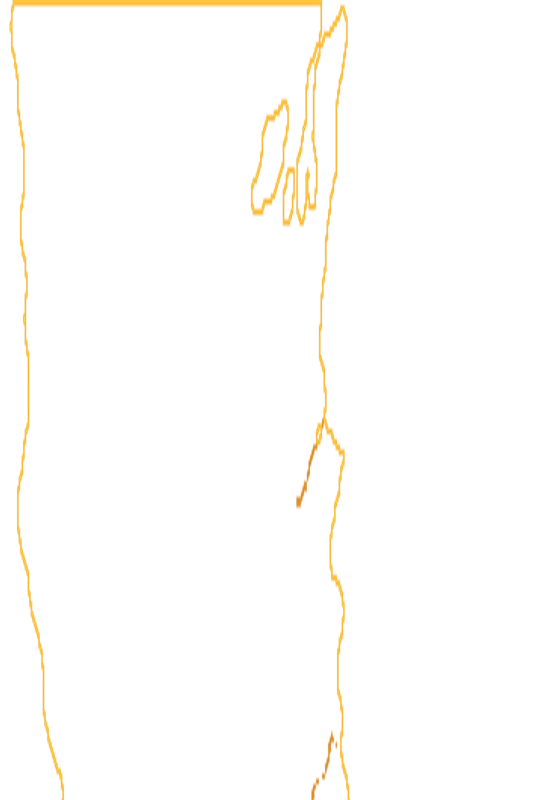
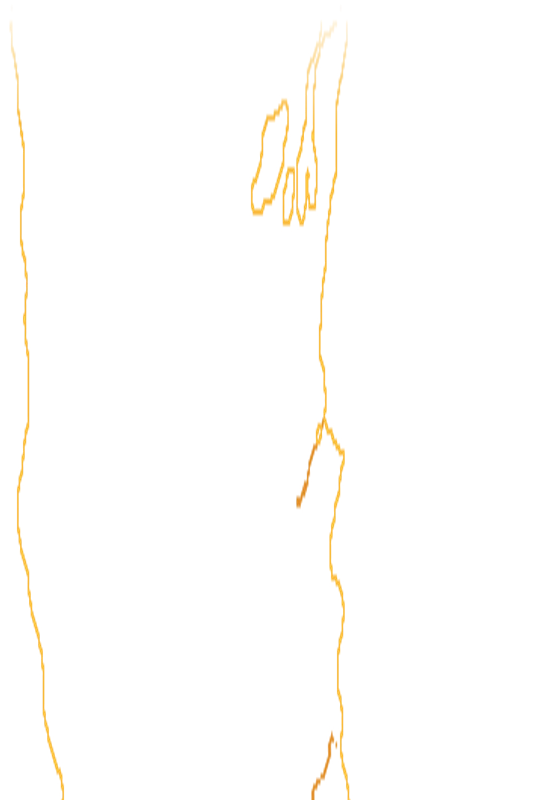
feat: add DragonImage component and clean portrait assets with fallback logic

diff --git a/scratch/test_pipeline.js b/scratch/test_pipeline.js
@@ -1,7 +1,7 @@
 const sharp = require('sharp');
 const fs = require('fs');
 
-async function testPipeline() {
+async function generateNaturalOutlineMap() {
   const inputPath = 'public/map/westeros-outline.png';
   const img = sharp(inputPath);
   const { data, info } = await img.raw().toBuffer({ resolveWithObject: true });
@@ -9,12 +9,12 @@ async function testPipeline() {
   const h = info.height; // 1024
   const ch = info.channels;
 
-  // Let's create a line map on the original resolution
-  const lineBuf = Buffer.alloc(w * h * 4);
-
+  // Function to check if a pixel in the original image is ocean
   function isOcean(x, y) {
-    if (x < 0 || x >= w || y < 0 || y >= h) return true;
+    // IMPORTANT: Out-of-bounds is NOT ocean! Do NOT draw artificial canvas border lines!
+    if (x < 0 || x >= w || y < 0 || y >= h) return false;
     const idx = (y * w + x) * ch;
+    // Blue sea: (b - r > 20 && b > 105)
     return (data[idx + 2] - data[idx] > 20 && data[idx + 2] > 105);
   }
 
@@ -24,42 +24,49 @@ async function testPipeline() {
     return 0.299 * data[idx] + 0.587 * data[idx + 1] + 0.114 * data[idx + 2];
   }
 
+  const lineBuf = Buffer.alloc(w * h * 4);
+
   for (let y = 0; y < h; y++) {
     for (let x = 0; x < w; x++) {
       const idx = (y * w + x) * 4;
       const ocean = isOcean(x, y);
 
-      // Check coastline
+      // 1. Coastline: A land pixel adjacent to an actual ocean pixel
       let isCoast = false;
       if (!ocean) {
-        // Any adjacent ocean pixel?
+        // Only trigger if an actual valid within-bounds ocean pixel is adjacent
         if (isOcean(x - 1, y) || isOcean(x + 1, y) || isOcean(x, y - 1) || isOcean(x, y + 1) ||
             isOcean(x - 1, y - 1) || isOcean(x + 1, y - 1) || isOcean(x - 1, y + 1) || isOcean(x + 1, y + 1)) {
-          isCoast = true;
+          // Exclude the very top border (y < 4) to avoid flat cut line
+          if (y >= 4) {
+            isCoast = true;
+          }
         }
       }
 
-      // Check internal line
+      // 2. Internal kingdom borders and rivers:
       let isInternal = false;
       if (!ocean && !isCoast) {
         const lum = getLum(x, y);
-        // Surrounding lum
         const surr = (getLum(x - 2, y) + getLum(x + 2, y) + getLum(x, y - 2) + getLum(x, y + 2)) / 4;
-        if (surr - lum > 8 || lum < 135) {
+        if (surr - lum > 7 || lum < 135) {
           isInternal = true;
         }
       }
 
       if (isCoast) {
+        // Fade top 20px smoothly so the far north doesn't end abruptly
+        const topFade = y < 25 ? (y / 25) : 1.0;
         lineBuf[idx] = 250;     // R
         lineBuf[idx + 1] = 185; // G
         lineBuf[idx + 2] = 55;  // B
-        lineBuf[idx + 3] = 255; // Alpha
+        lineBuf[idx + 3] = Math.floor(255 * topFade); // Alpha
       } else if (isInternal) {
-        lineBuf[idx] = 220;     // R
+        const topFade = y < 25 ? (y / 25) : 1.0;
+        lineBuf[idx] = 225;     // R
         lineBuf[idx + 1] = 140; // G
         lineBuf[idx + 2] = 35;  // B
-        lineBuf[idx + 3] = 230; // Alpha
+        lineBuf[idx + 3] = Math.floor(225 * topFade); // Alpha
       } else {
         lineBuf[idx] = 0;
         lineBuf[idx + 1] = 0;
@@ -69,16 +76,18 @@ async function testPipeline() {
     }
   }
 
-  // Now upscale this pure line map directly to 560 x 5350!
-  await sharp(lineBuf, { raw: { width: w, height: h, channels: 4 } })
+  // Upscale cleanly to 560 x 5350 using Lanczos3
+  const outBuf = await sharp(lineBuf, { raw: { width: w, height: h, channels: 4 } })
     .resize(560, 5350, {
       kernel: sharp.kernel.lanczos3,
       fit: 'fill'
     })
     .webp({ quality: 95, effort: 6 })
-    .toFile('public/map/westeros-ultra-sharp.webp');
+    .toBuffer();
 
-  console.log('Processed and upscaled cleanly to public/map/westeros-ultra-sharp.webp');
+  const targetFile = 'public/map/westeros-ultra-sharp.webp';
+  fs.writeFileSync(targetFile, outBuf);
+  console.log('Saved perfected natural Westeros outline to:', targetFile);
 }
 
-testPipeline();
+generateNaturalOutlineMap();

diff --git a/components/DragonImage.tsx b/components/DragonImage.tsx
@@ -1,6 +1,5 @@
 "use client";
 
-import Image from "next/image";
 import { useState, useEffect } from "react";
 
 type DragonImageProps = {
@@ -19,10 +18,9 @@ export default function DragonImage({
   dragonId,
   className = "",
   style = {},
-  isBlendedImage = false,
   priority = false,
 }: DragonImageProps) {
-  const [loaded, setLoaded] = useState(false);
+  const [loaded, setLoaded] = useState(true);
   const [useDirect, setUseDirect] = useState(false);
   const [error, setError] = useState(false);
 
@@ -31,7 +29,7 @@ export default function DragonImage({
   const isLocalClean = activeSrc.startsWith("/dragons/clean/");
 
   useEffect(() => {
-    setLoaded(false);
+    setLoaded(true);
     setUseDirect(false);
     setError(false);
   }, [activeSrc]);
@@ -49,13 +47,6 @@ export default function DragonImage({
 
   return (
     <div className="relative flex items-center justify-center">
-      {/* Skeleton Loading Placeholder without harsh box borders */}
-      {!loaded && !error && (
-        <div className="absolute inset-0 flex flex-col items-center justify-center pointer-events-none opacity-40">
-          <span className="text-2xl animate-pulse">🐉</span>
-        </div>
-      )}
-
       {/* Fallback Display on Error */}
       {error ? (
         <div className="flex flex-col items-center justify-center p-4 bg-zinc-950/80 border border-amber-900/40 rounded-xl text-center space-y-1 z-10">
@@ -64,20 +55,13 @@ export default function DragonImage({
           <span className="text-[10px] text-zinc-500">Citadel Archive Portrait</span>
         </div>
       ) : (
-        <Image
+        <img
           src={currentSrc}
           alt={alt}
-          width={450}
-          height={320}
-          quality={85}
-          priority={priority}
-          unoptimized={isLocalClean || useDirect}
-          sizes="(max-width: 640px) 100vw, (max-width: 1024px) 50vw, 400px"
-          onLoad={() => setLoaded(true)}
+          loading={priority ? "eager" : "lazy"}
+          decoding="async"
           onError={handleImageError}
-          className={`transition-all duration-300 ${
-            loaded ? "opacity-100 scale-100" : "opacity-0 scale-95"
-          } ${isBlendedImage ? "dragon-image-blend" : ""} ${className}`}
+          className={`dragon-clipart ${className}`}
           style={style}
         />
       )}

diff --git a/scratch/inspect_arrax_tag.js b/scratch/inspect_arrax_tag.js
@@ -1,0 +1,11 @@
+const http = require('http');
+
+http.get('http://localhost:3000', (res) => {
+  let html = '';
+  res.on('data', c => html += c);
+  res.on('end', () => {
+    // Find the img tag for Arrax
+    const match = html.match(/<img[^>]*alt="Arrax"[^>]*>/);
+    console.log('Arrax img tag:', match ? match[0] : 'not found');
+  });
+});
